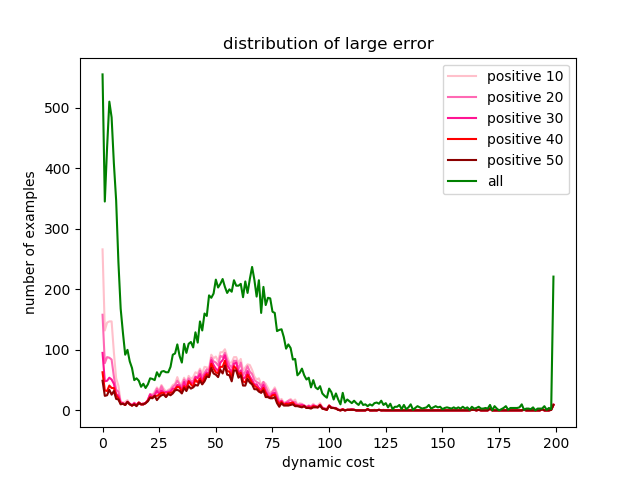
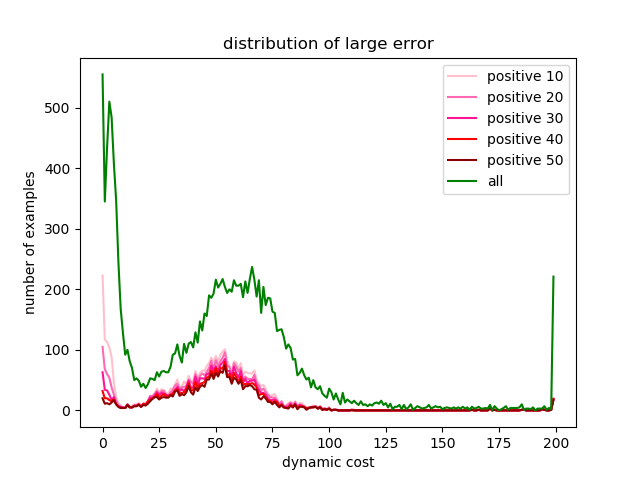
n

Changed region(s): [[0.1562, 0.6562, 0.5625, 0.875]]

diff --git a/scripts/neural_network/p1p2/analyze_error_3.py b/scripts/neural_network/p1p2/analyze_error_3.py
@@ -12,7 +12,7 @@ from model_v3 import Model
 from special_dataset import Dataset
 from train import loss_across_epoch
 
-model_version = 'model_v3_00005'
+model_version = 'model_v3_00001_Adam_Weighted_Loss'
 
 def restore_checkpoint(model, checkpoint_dir):
     files = [file for file in os.listdir(checkpoint_dir)
@@ -32,7 +32,7 @@ def restore_checkpoint(model, checkpoint_dir):
     checkpoint = torch.load(filename)
 
     try:
-        model.load_state_dict(checkpoint['state_dict'])
+        model.load_state_dict(checkpoint['model_state_dict'])
         print('Successfully load the model from epoch {}'.format(requested_epoch))
     except:
         print('Fail to load the model from epoch {}'.format(requested_epoch))
@@ -110,7 +110,7 @@ def main():
     plt.xlabel('dynamic cost')
     plt.ylabel('number of examples')
     plt.legend()
-    plt.savefig('positive.png')
+    plt.savefig('positive_weighted_loss.png')
     
 
 
